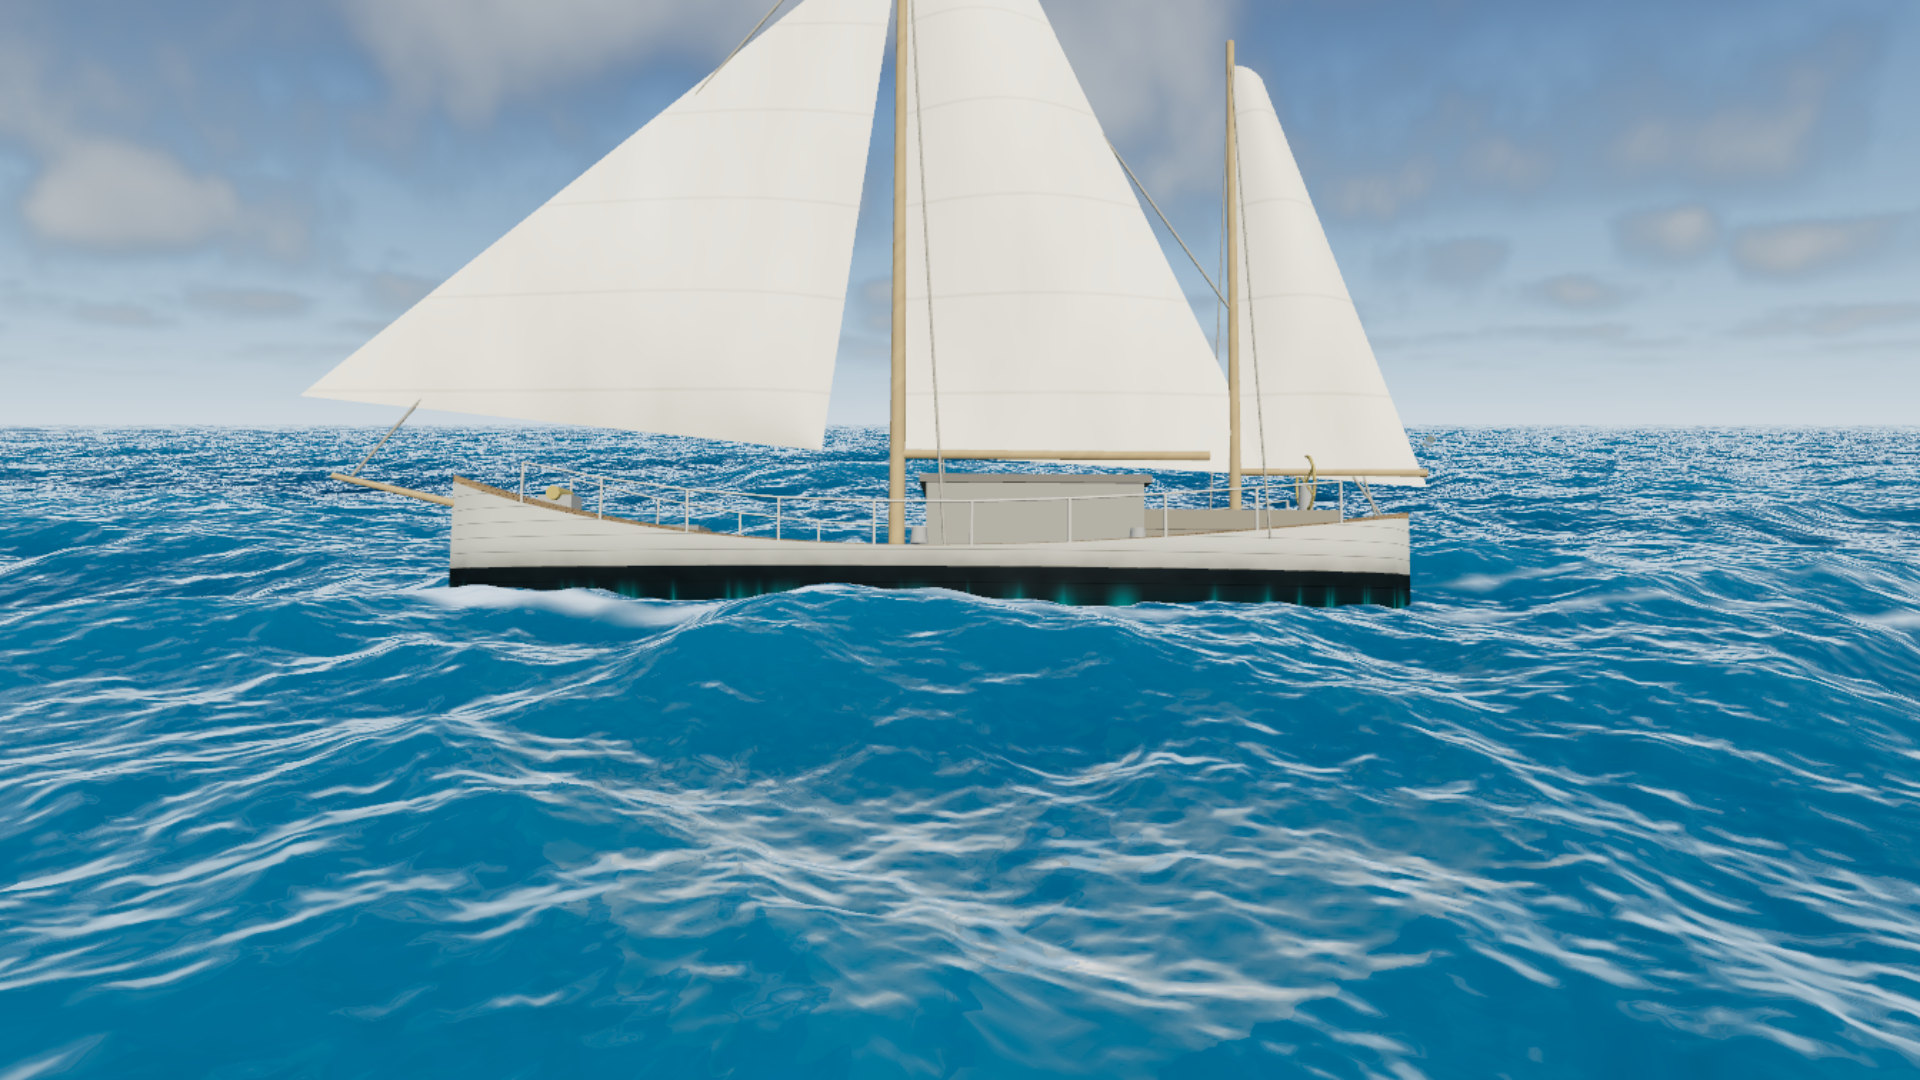
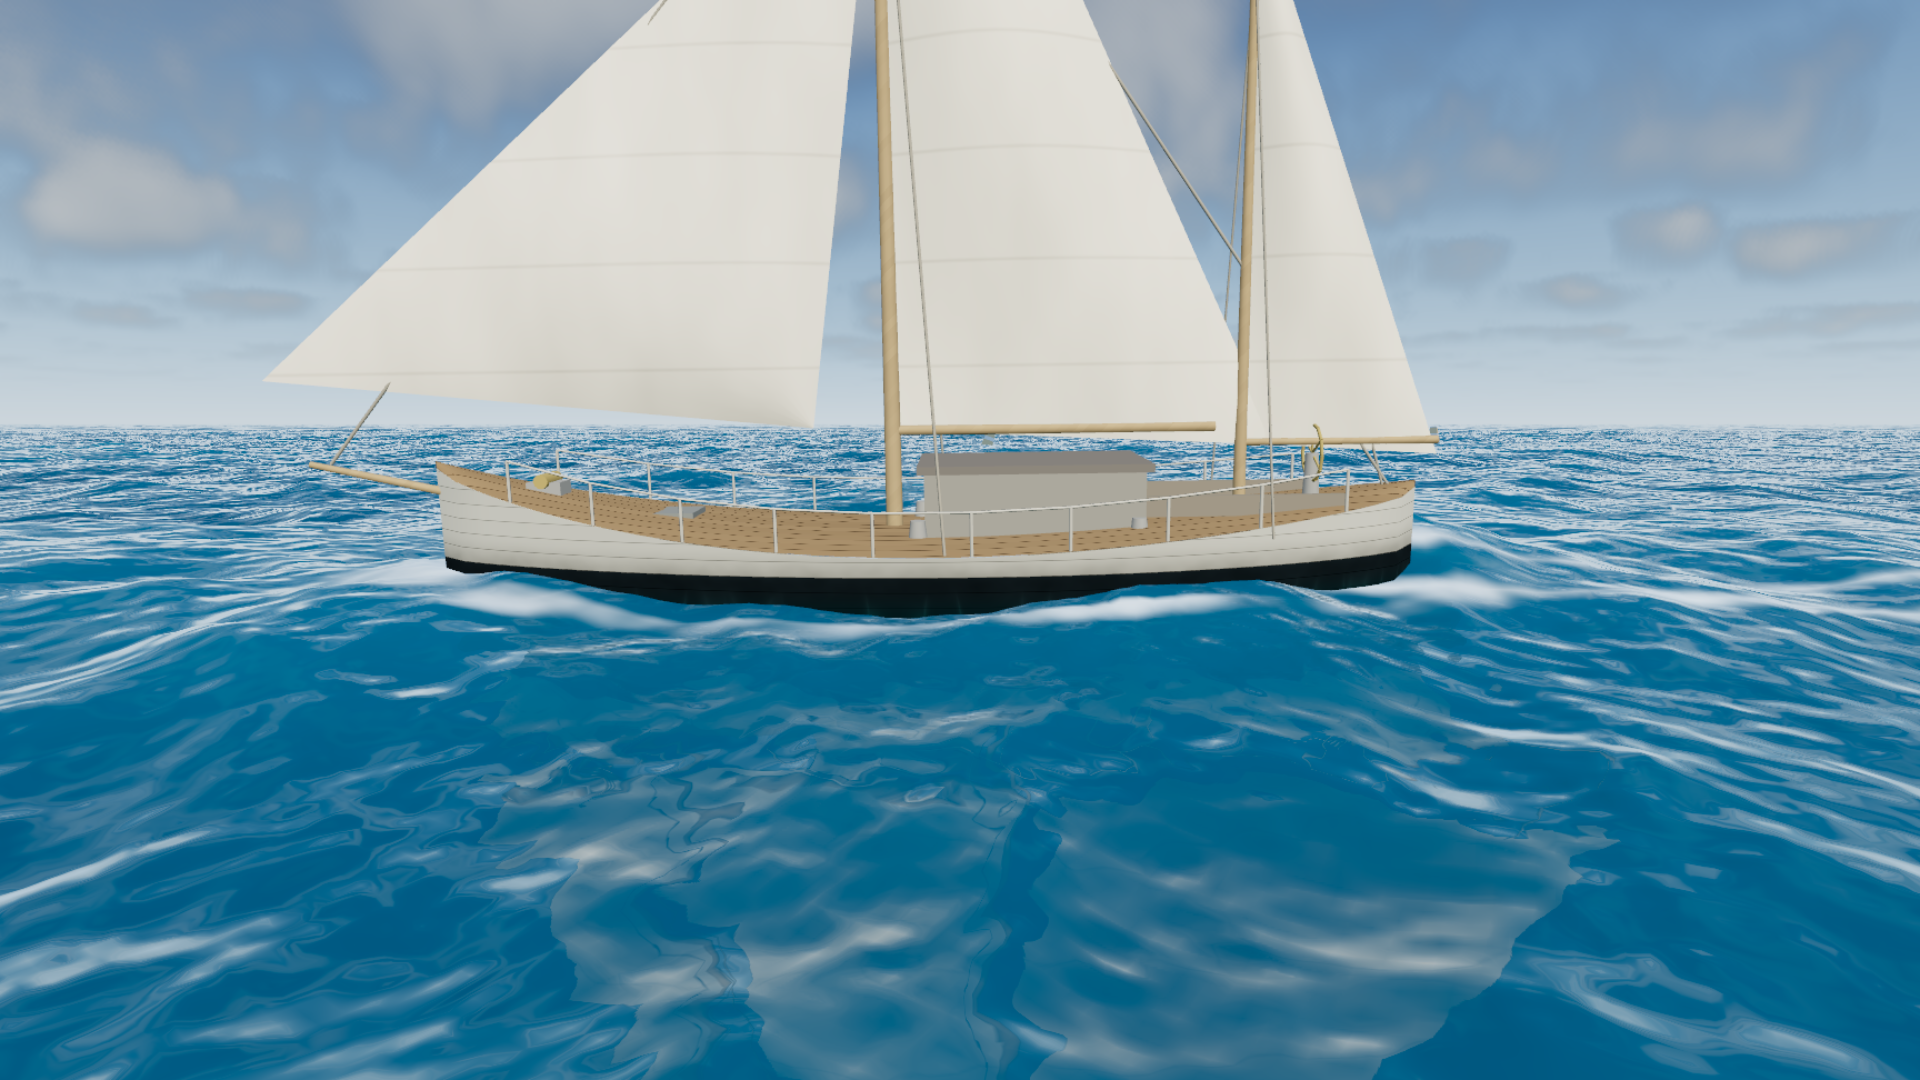
Make the water a window: refract the scene instead of guessing it
A seabed mesh was already in the scene and already rendered, with real geometry,
real shading and real caustics. The water surface then drew over it opaque and
rebuilt the bottom from noise. We were rendering the bottom twice and shipping
the worse one, and the analytic one could not hold the dynamic range (its albedo
spans 0.30 to 0.52 of the sand colour where a reef runs from near-black channels
to bright sand), had no shadows, and could not show a submerged object at all —
which is why the hull vanished below the waterline seen from above.

The surface now draws in the transparent pass, so `viewportSharedTexture` has a
frame behind it to read, and samples it displaced by where the refracted ray
actually surfaces. It is still visually opaque — alpha 1, ordinary blend; the
only thing `transparent` buys is the ordering. `?norefract=1` restores the
analytic path exactly.

Three things had to be handled and each was visible the moment it wasn't:

  - The lookup is not constrained to land on submerged geometry. At the
    waterline it read the hull's topsides and smeared them into the sea. The
    depth buffer answers the only question that matters — is what I sampled
    behind me — and a comparison needs far less precision than a distance, so it
    survives a 60 km far plane where reconstructing the separation would not.

  - `saturate` pins an out-of-range lookup to the edge row, so the bottom of the
[…]

diff --git a/src/ocean/material.js b/src/ocean/material.js
@@ -22,6 +22,7 @@ import {
 	Fn, If, abs, cameraPosition, dFdx, dFdy, dot, exp, faceDirection, float, fwidth, length, max, min, mix,
 	mx_fractal_noise_float, normalize, oneMinus, positionGeometry, positionWorld, pow, reflect,
 	refract, saturate, screenUV, smoothstep, step, texture, varyingProperty, vec2, vec3,
+	linearDepth, viewportDepthTexture, viewportSharedTexture,
 } from 'three/tsl';
 
 import { createWaveEvaluator, foamFromJacobian } from './waves.js';
@@ -45,10 +46,23 @@ export function createOceanMaterial( env, field, sky, opts = {} ) {
 	const u = env.u;
 	const evaluate = createWaveEvaluator( field, env, { earlyOut: opts.earlyOut !== false } );
 
+	// Refraction needs the scene *behind* the water, which only exists once the
+	// opaque pass has run — so the surface has to be drawn in the transparent
+	// pass. It is still visually opaque: alpha stays at 1 and the blend is
+	// ordinary, so nothing composites through. The only thing `transparent`
+	// changes here is the ordering, and the ordering is what makes
+	// `viewportSharedTexture` mean anything.
+	//
+	// `?norefract=1` keeps it in the opaque pass and restores the analytic
+	// bottom exactly, because a change to render order is precisely the kind of
+	// thing that needs an A/B rather than an argument.
+	const refracting = opts.refract !== false;
+
 	const material = new MeshBasicNodeMaterial();
 	material.name = 'OceanSurface';
 	material.side = FrontSide;
-	material.transparent = false;
+	material.transparent = refracting;
+	material.depthWrite = true;
 	material.fog = false;
 
 	/* ------------------------------------------------------------- vertex */
@@ -462,6 +476,64 @@ export function createOceanMaterial( env, field, sky, opts = {} ) {
 			bedColor.assign( seabedAlbedo( bedPoint.xz, u.seabedColor )
 				.mul( ambient )
 				.mul( float( 1.0 ).add( min( caustic, float( 1.3 ) ).mul( 0.45 ) ) ) );
+
+			// The bottom the viewer actually sees, rather than a second guess at it.
+			//
+			// A seabed mesh is already in the scene and already rendered — with real
+			// geometry, real shading and real caustics — and then this shader drew an
+			// opaque surface straight over it and rebuilt the bottom from noise. We
+			// were rendering the bottom twice and shipping the worse one. The
+			// analytic version cannot hold the dynamic range (its albedo spans 0.30
+			// to 0.52 of the sand colour, where a real reef runs from near-black
+			// channels to bright sand), it has no shadows, and it cannot show a
+			// submerged object at all — which is why the hull disappeared below the
+			// waterline when seen from above.
+			//
+			// So: sample the frame behind this pixel, displaced by where the
+			// refracted ray actually comes up. The lateral shift is metres at the
+			// bottom, turned into screen UV by dividing by the view distance — a
+			// metre at distance d subtends roughly 1/d of the frame. Clamped,
+			// because a grazing ray's shift goes to infinity and would drag colour
+			// in from the far side of the screen.
+			if ( refracting ) {
+
+				const lateral = refr.xz.div( max( refr.y.negate(), float( 0.28 ) ) )
+					.mul( tBed ).toVar( 'refrLateral' );
+
+				const shift = lateral.mul( float( 0.30 ).div( max( viewDist, float( 1.0 ) ) ) );
+				const clamped = shift.div( max( length( shift ).div( 0.06 ), float( 1.0 ) ) );
+
+				// Taper the shift to nothing at the frame border. `saturate` pins an
+				// out-of-range lookup to the edge row, so every pixel along the bottom
+				// of the frame read the same texel and the refraction came out as
+				// vertical streaks. There is no information outside the frame to
+				// refract; the honest thing is to stop bending near the edge.
+				const border = smoothstep( 0.0, 0.05, screenUV.x )
+					.mul( smoothstep( 1.0, 0.95, screenUV.x ) )
+					.mul( smoothstep( 0.0, 0.05, screenUV.y ) )
+					.mul( smoothstep( 1.0, 0.95, screenUV.y ) );
+
+				const shifted = saturate( screenUV.add( clamped.mul( border ) ) ).toVar( 'refrUV' );
+
+				// Reject a sample that turns out to be in *front* of the water.
+				//
+				// Nothing constrains the shifted lookup to land on submerged
+				// geometry: at the waterline it happily reads the hull's topsides and
+				// smears them down into the sea, which showed up immediately as a
+				// bright band under the boat. The depth buffer answers the only
+				// question that matters — is what I just sampled behind me? — and a
+				// comparison needs far less precision than a distance would, so this
+				// survives a hundred-kilometre far plane where reconstructing the
+				// actual separation would not.
+				const dHere = linearDepth().toVar( 'refrDepthHere' );
+				const dThere = linearDepth( viewportDepthTexture( shifted ) ).toVar( 'refrDepthThere' );
+				const behind = step( dHere, dThere ).toVar( 'refrBehind' );
+
+				const uv = mix( screenUV, shifted, behind ).toVar( 'refrFinalUV' );
+
+				bedColor.assign( viewportSharedTexture( uv ).rgb );
+
+			}
 
 		} );
 

diff --git a/src/props/vessel.js b/src/props/vessel.js
@@ -813,10 +813,15 @@ export class Vessel {
 				.mul( submerged )
 				.toVar( 'vesCaustic' );
 
+			// Scaled by the paint rather than added on top of it. As an independent
+			// glow it was invisible while the water above was opaque, and the moment
+			// refraction made the submerged hull visible from above it read as a
+			// cyan strip lit from inside. Caustics modulate whatever they land on;
+			// dark antifouling catches far less of them than pale sand does.
 			lit.addAssign(
-				u.sunColor.mul( u.waterShallow )
-					.mul( min( caustic, float( 1.5 ) ) )
-					.mul( u.sunIntensity ).mul( 0.85 )
+				paint.mul( u.sunColor )
+					.mul( min( caustic, float( 1.4 ) ) )
+					.mul( u.sunIntensity ).mul( 0.60 )
 			);
 
 			// The gloss the wet band buys: a tight lobe toward the sun, present only

diff --git a/src/main.js b/src/main.js
@@ -331,6 +331,7 @@ class App {
 			foam: this.foam,
 			spectral: this.spectral?.textures ?? null,
 			propReflection: this.propReflection ? this.propReflection.texture : null,
+			refract: new URLSearchParams( location.search ).get( 'norefract' ) !== '1',
 		} );
 
 		this.ocean = new Ocean( this.env, this.field, geometryInfo, material );
